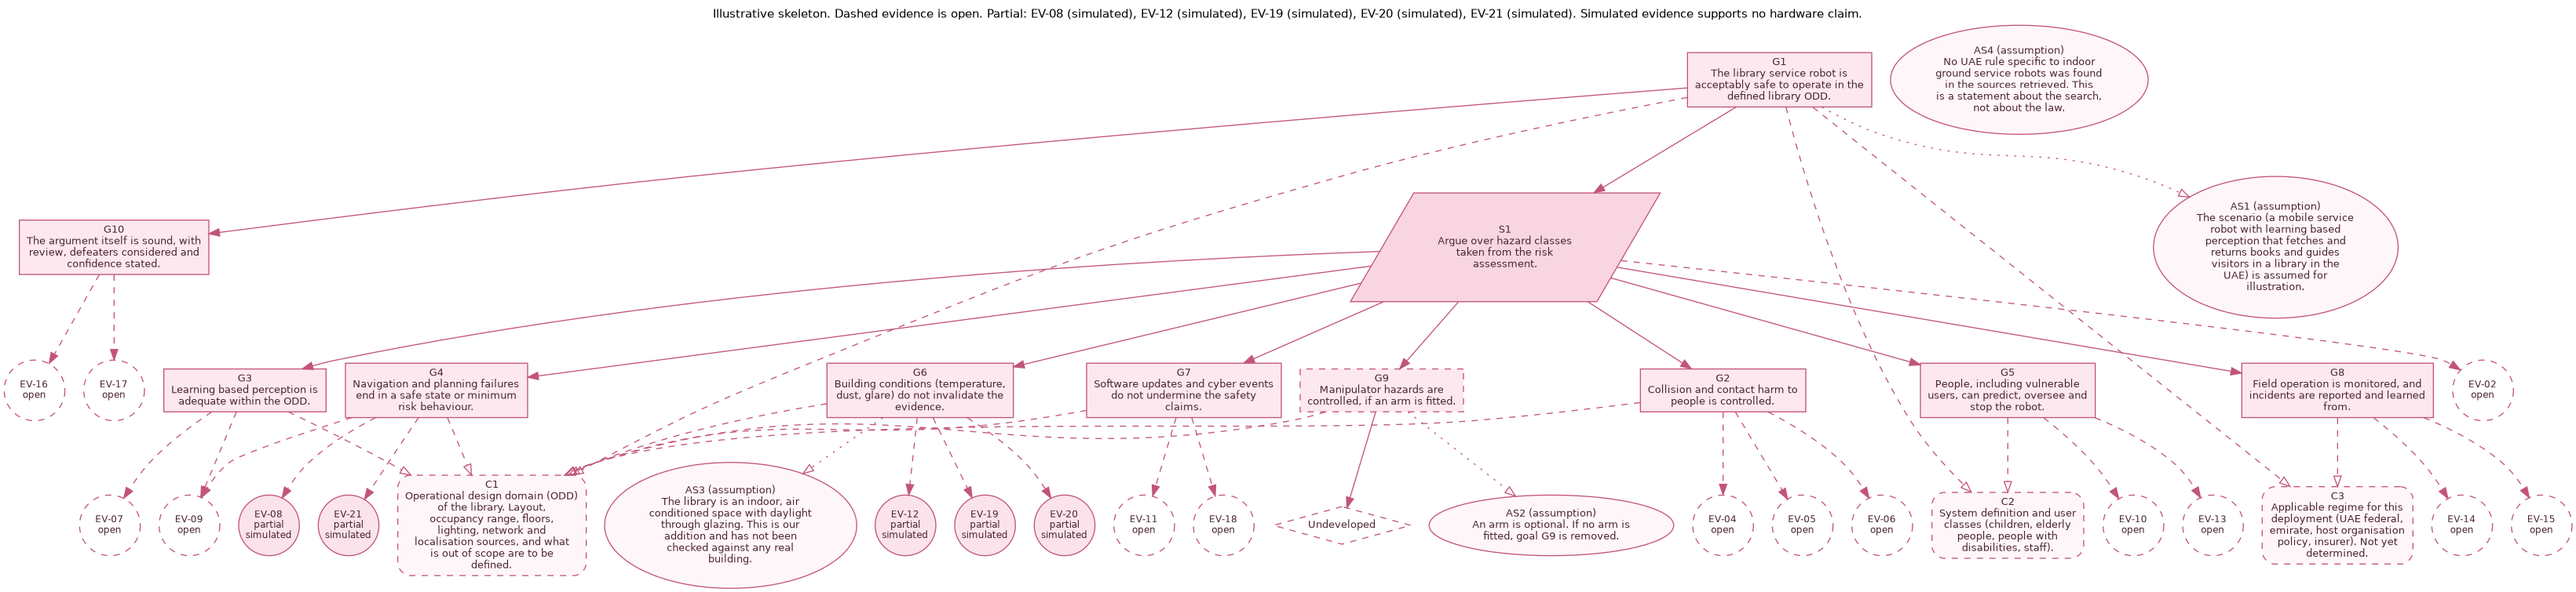
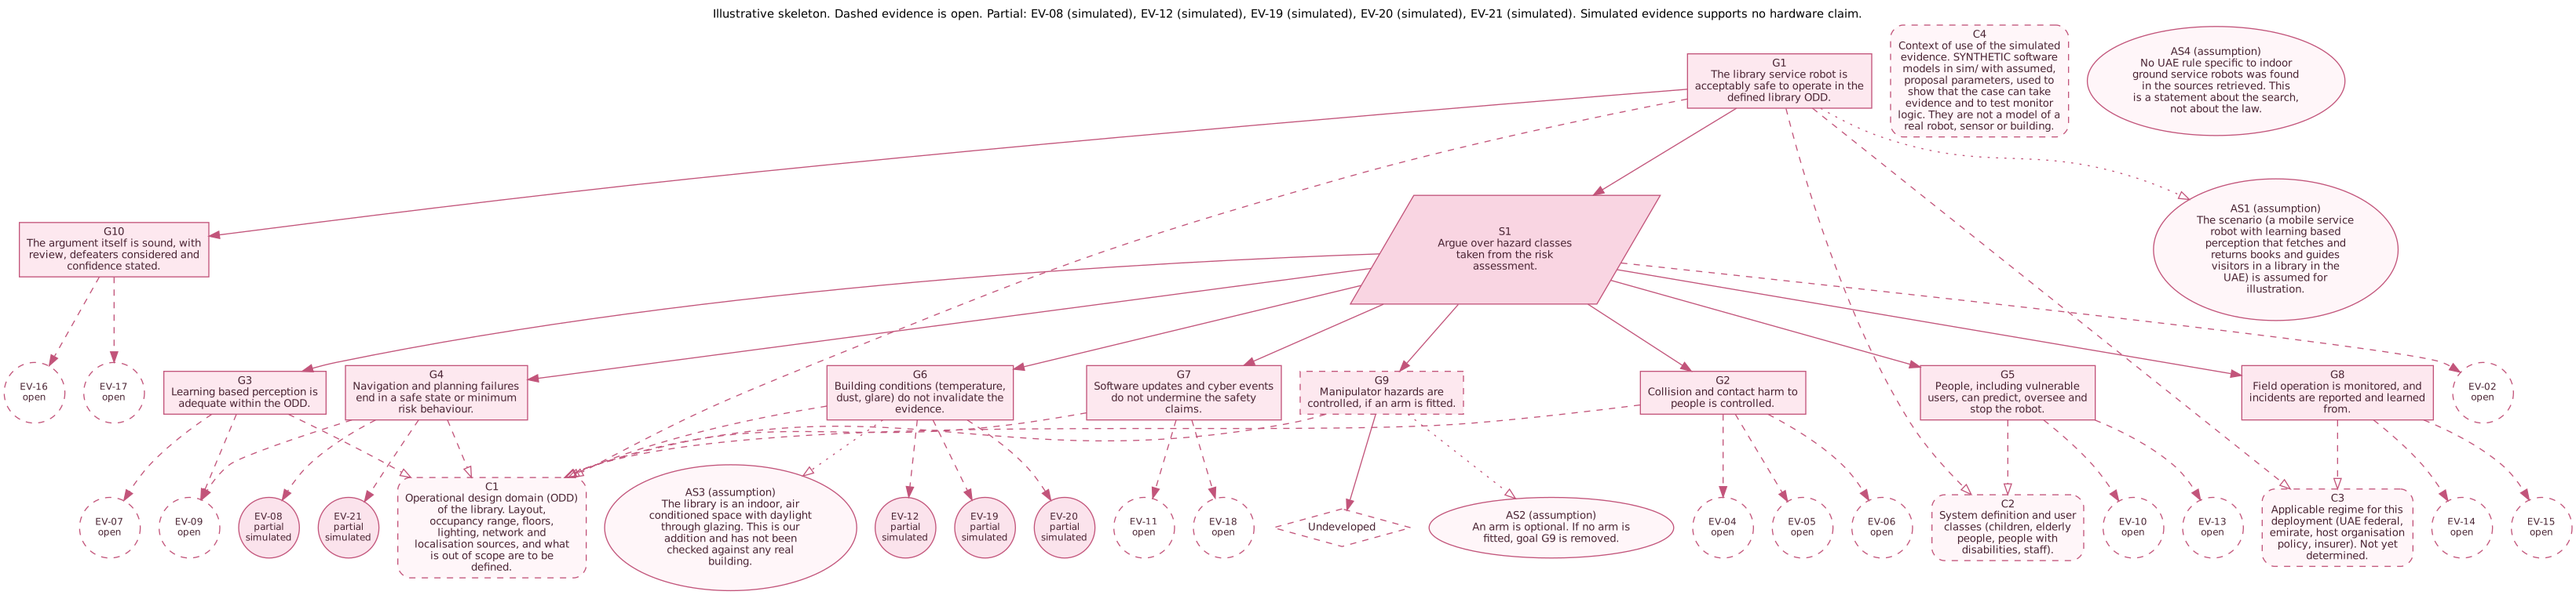
assurance: add context of use for the simulated evidence; regenerate diagram and handoff counts

diff --git a/HANDOFF.md b/HANDOFF.md
@@ -41,7 +41,7 @@ Failed acceptance criteria: first round AC-GL1, AC-GL2, AC-N1; second round AC-G
 
 ## State of the assurance case
 
-21 evidence items: 16 open, 5 partial (EV-08 (simulated, `sim/results/EV-08.json`), EV-12 (simulated, `sim/results/EV-12.json`), EV-19 (simulated, `sim/results_r2/EV-19.json`), EV-20 (simulated, `sim/results_r2/EV-20.json`), EV-21 (simulated, `sim/results_r2/EV-21.json`)), 0 provided. Checker: 0 errors, 48 flags. Hardware claims supported only by simulation, and therefore still open: G1, G4, G6.
+21 evidence items: 16 open, 5 partial (EV-08 (simulated, `sim/results/EV-08.json`), EV-12 (simulated, `sim/results/EV-12.json`), EV-19 (simulated, `sim/results_r2/EV-19.json`), EV-20 (simulated, `sim/results_r2/EV-20.json`), EV-21 (simulated, `sim/results_r2/EV-21.json`)), 0 provided. Checker: 0 errors, 56 flags. Hardware claims supported only by simulation, and therefore still open: G1, G4, G6.
 
 ## What the owner must do
 
